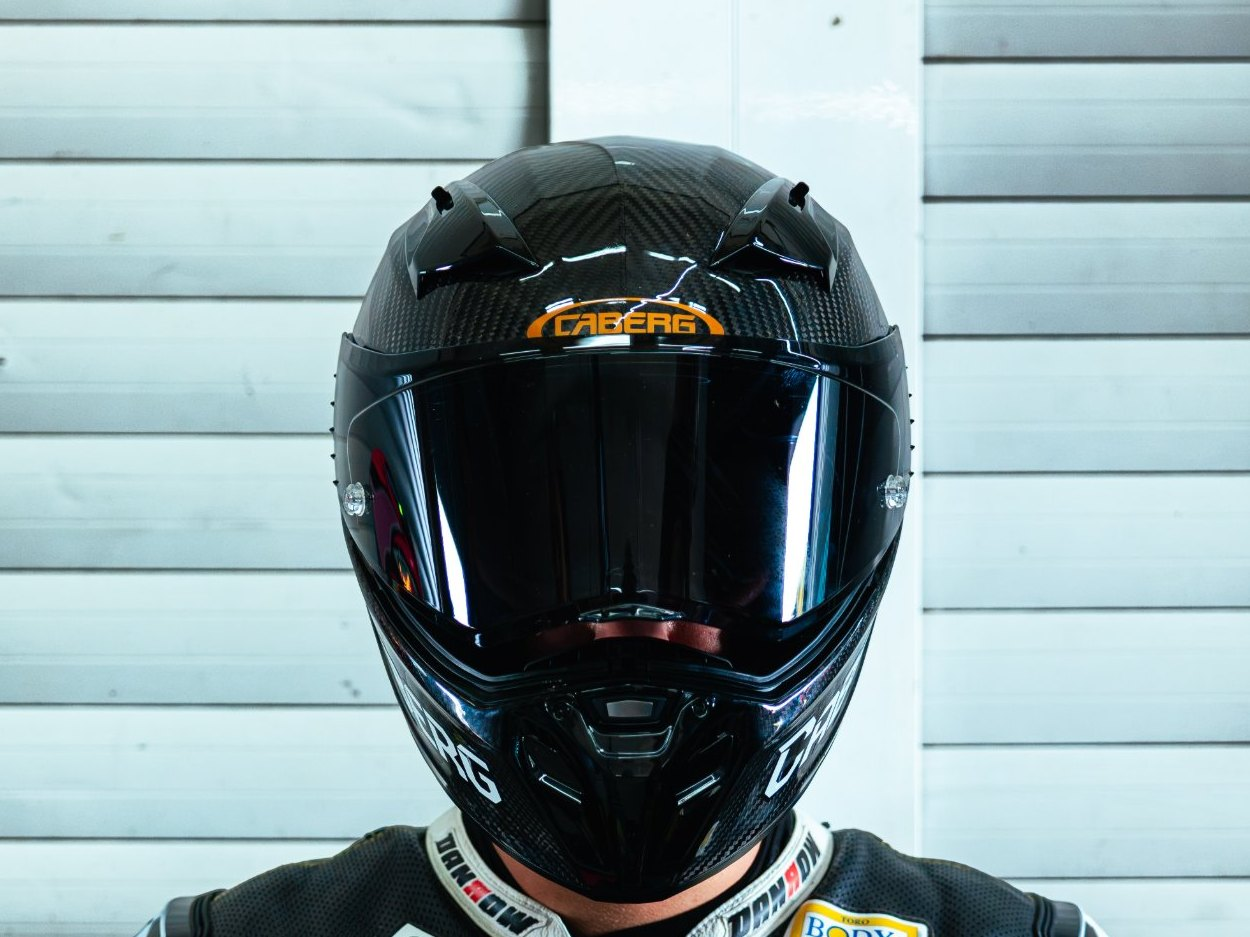
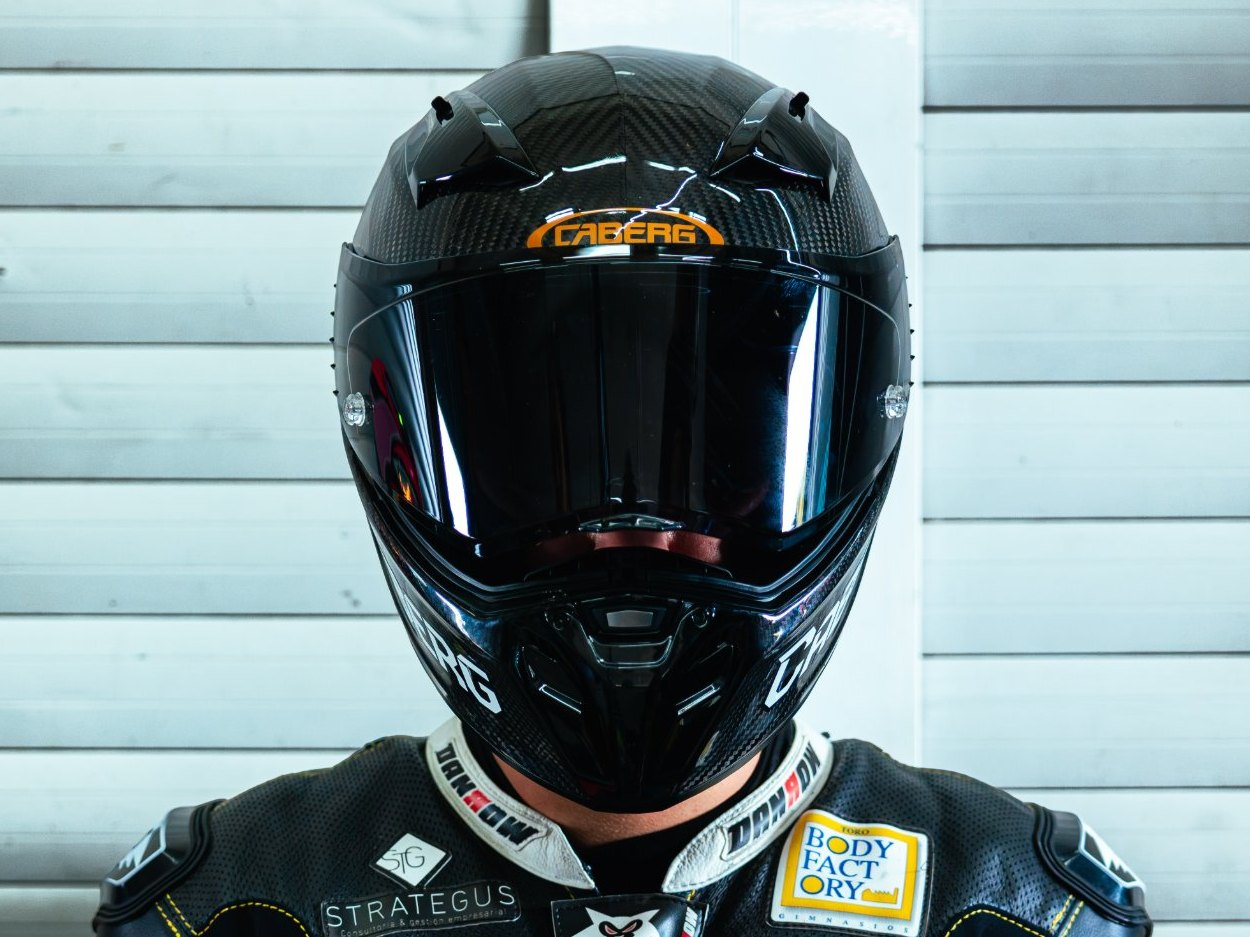
Jerez II: menos hueco encima del casco
Claude-Session: https://claude.ai/code/session_01VcM5Xrf3eEMurb4mjzbeTb

diff --git a/index.html b/index.html
@@ -435,7 +435,7 @@ footer a{color:var(--y)}
   <div class="races">
     <article class="race rv"><div class="photo" data-z><img src="img/jz1-podio.jpg" alt="Damián con el cartel del primer puesto en Jerez" style="object-position:55% 30%"></div><div class="bd"><span class="when">1.ª carrera</span><h3>Jerez</h3><p>Gané la sprint y la carrera.</p><span class="result">1.º Sprint · 1.º Carrera</span></div></article>
     <article class="race rv"><div class="photo" data-z><img src="img/alb-card.jpg" alt="Damián tumbado con la moto en Albacete" style="object-position:66% 35%"></div><div class="bd"><span class="when">2.ª carrera</span><h3>Albacete</h3><p>Me caí en la sprint y terminé tercero en la carrera.</p><span class="result">Caída Sprint · 3.º Carrera</span></div></article>
-    <article class="race rv"><div class="photo" data-z><img src="img/jz2-card.jpg?v=6" alt="Damián sentado en el box con el casco puesto en Jerez" style="object-position:50% 50%"></div><div class="bd"><span class="when">3.ª carrera</span><h3>Jerez II</h3><p>Cuarto en la sprint. En la carrera tuve que abandonar por problemas técnicos.</p><span class="result pink">4.º Sprint · DNF Carrera</span></div></article>
+    <article class="race rv"><div class="photo" data-z><img src="img/jz2-card.jpg?v=7" alt="Damián sentado en el box con el casco puesto en Jerez" style="object-position:50% 50%"></div><div class="bd"><span class="when">3.ª carrera</span><h3>Jerez II</h3><p>Cuarto en la sprint. En la carrera tuve que abandonar por problemas técnicos.</p><span class="result pink">4.º Sprint · DNF Carrera</span></div></article>
     <article class="race rv"><div class="photo" data-z><img src="img/nv-card.jpg?v=2" alt="Damián tumbado con la moto en Navarra" style="object-position:50% 50%"></div><div class="bd"><span class="when">4.ª carrera</span><h3>Navarra</h3><p>Todo el fin de semana en mojado. Remonté del último al quinto en la sprint y acabé cuarto en la carrera.</p><span class="result pink">5.º Sprint · 4.º Carrera</span></div></article>
   </div>
 </div></section>
